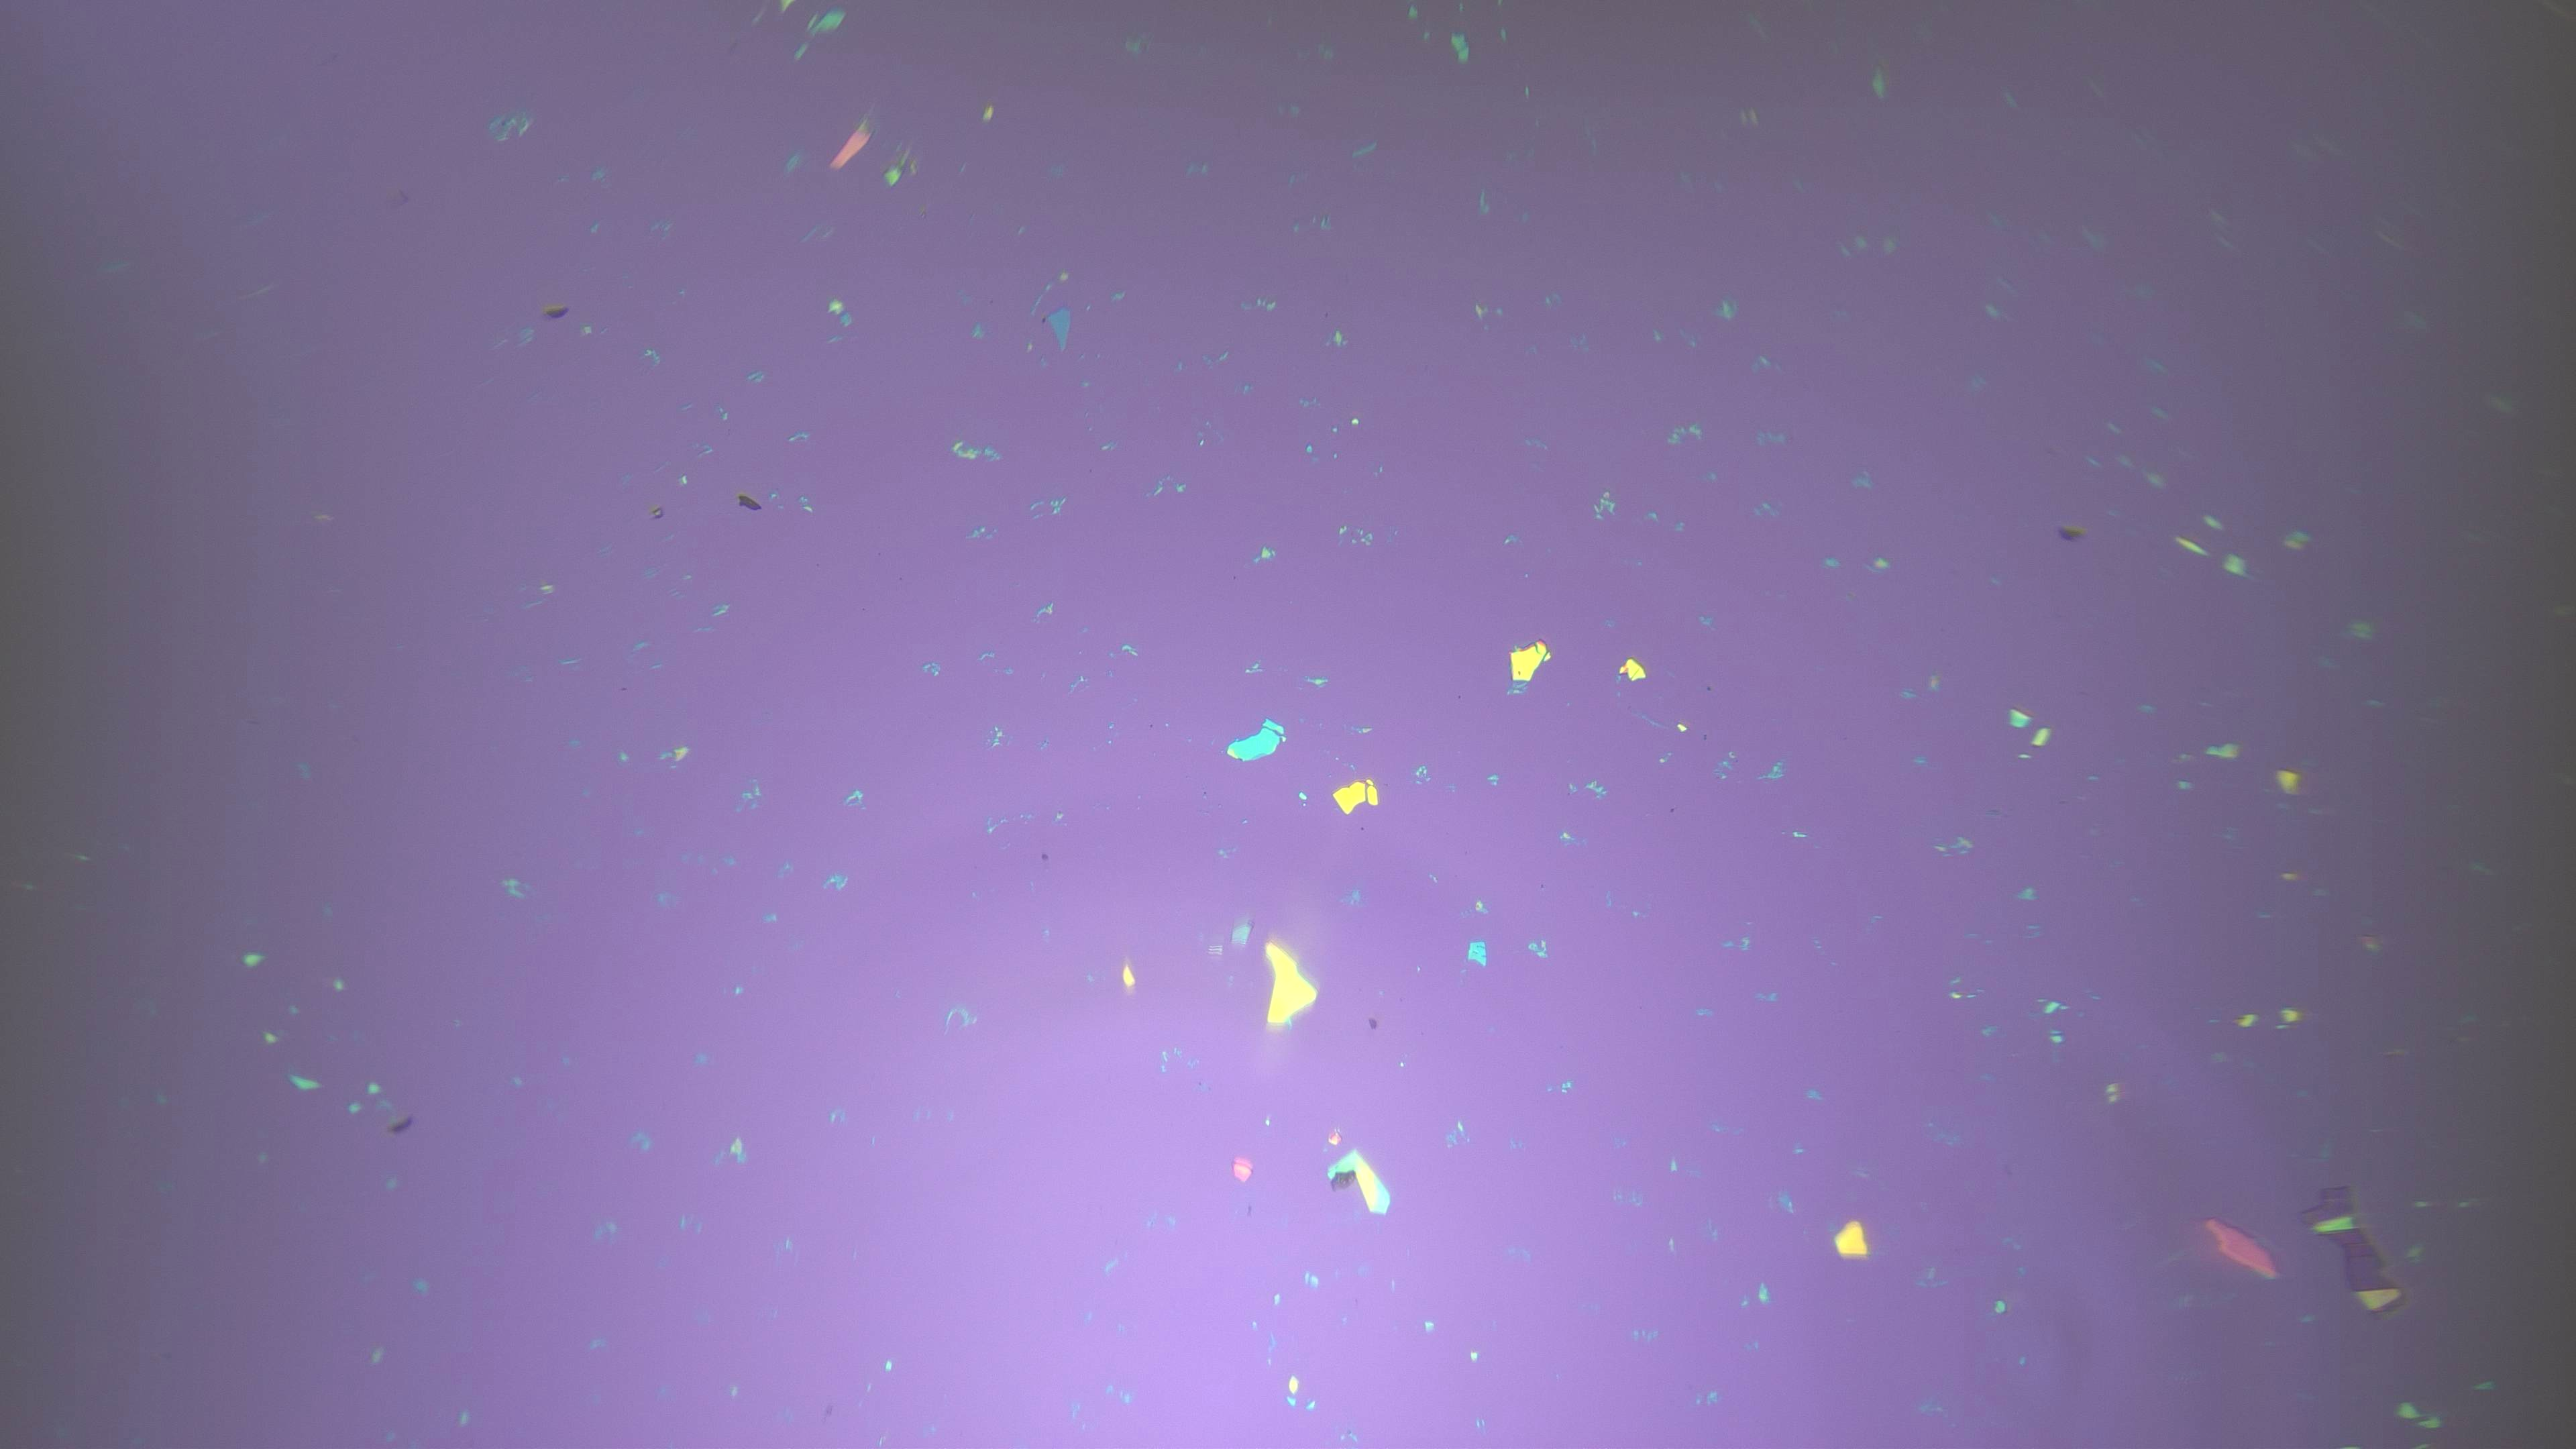
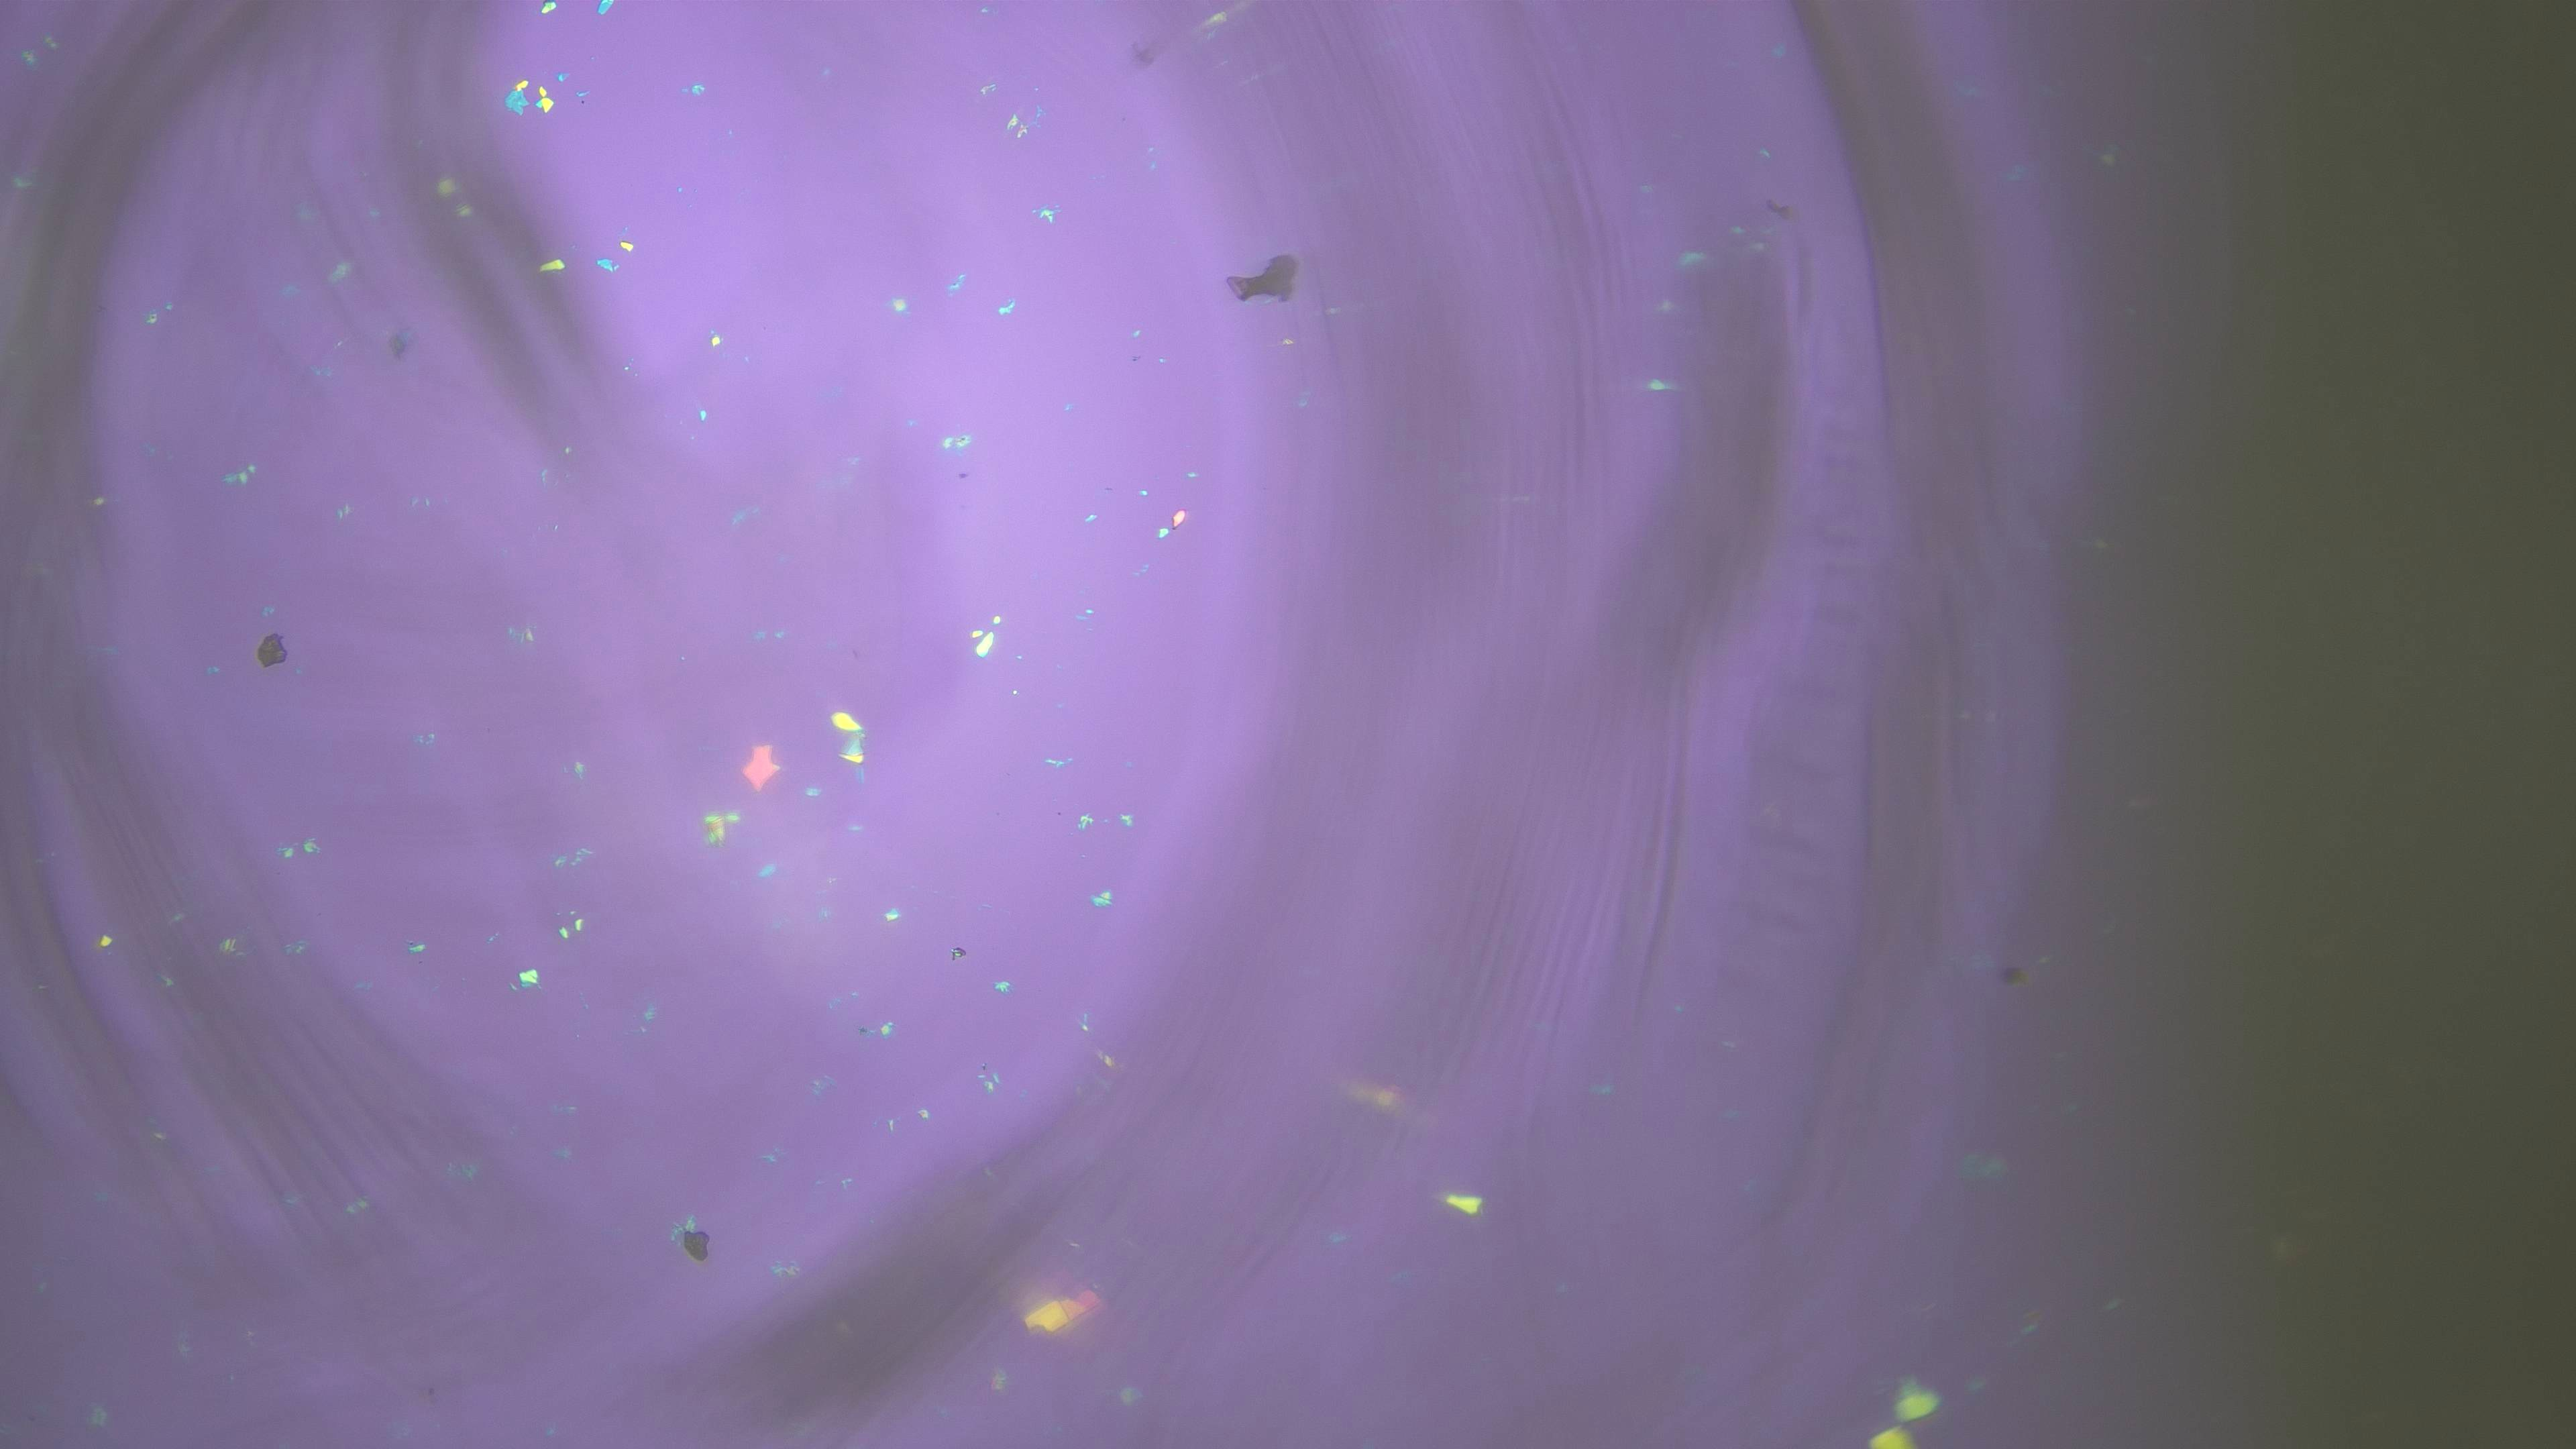
small fixes

diff --git a/cem_mpc.py b/cem_mpc.py
@@ -107,8 +107,8 @@ def load_checkpoint(ckpt_path: Path, encoder, projector, delta_embedder, ldp, de
     ckpt = torch.load(ckpt_path, map_location=device, weights_only=False)
     enc_sd = ckpt['encoder']
     # detect old key scheme and remap if necessary
-    if any(k.startswith('layers.') for k in enc_sd):
-        enc_sd = _remap_encoder_keys(enc_sd)
+    # if any(k.startswith('layers.') for k in enc_sd):
+    #     enc_sd = _remap_encoder_keys(enc_sd)
     encoder.load_state_dict(enc_sd)
     projector.load_state_dict(ckpt['projector'])
     delta_embedder.load_state_dict(ckpt['delta_embedder'])
@@ -147,8 +147,8 @@ def cem_plan(
     n_elite:      int   = 64,
     n_iters:      int   = 5,
     action_std:   float = 3.0,     # mm — initial sampling std
-    action_min:   float = -10.0,   # mm — per-step clamp
-    action_max:   float =  10.0,
+    action_min:   float = -1e-2,   # mm — per-step clamp
+    action_max:   float =  1e-2,
     device:       str   = 'cpu',
 ) -> tuple[torch.Tensor, float]:
     """
@@ -436,6 +436,13 @@ def main():
             action_max=args.max_step,
             settle_s=args.settle,
         )
+    except KeyboardInterrupt:
+        cv2.destroyAllWindows()
+        if robot is not None:
+            robot.disconnect()
+        if camera is not None:
+            camera.stop()
+
     finally:
         cv2.destroyAllWindows()
         if robot is not None:

diff --git a/hardware/transfer_control_controller.py b/hardware/transfer_control_controller.py
@@ -33,12 +33,12 @@ class TransferControl:
     def __init__(
         self,
         *,
-        x_serial: str = "26007120",
-        y_serial: str = "26007081",
+        x_serial: str = "26007081",
+        y_serial: str = "26007120",
         z_serial: str = "26006985",
         goni_serial: str = "27271252",
         polling_ms: int = 200,
-        L_com_port: str = "COM7",
+        L_com_port: str = "COM19",
         L_pos_min_mm: float = 0.0,
         L_pos_max_mm: float = 195.0,
         L_max_speed: Optional[int] = None,

diff --git a/hardware/camera_controller.py b/hardware/camera_controller.py
@@ -300,7 +300,7 @@ class CameraController:
     def _get_latest_frame(self) -> np.ndarray | None:
         """Get the most recent frame."""
         with self._lock:
-            return None if self._latest is None else self._latest.copy()
+            return None if self._latest is None else cv2.flip(self._latest.copy(), 0)
 
     # ========== Live view methods ========== #
 
@@ -392,7 +392,7 @@ class CameraController:
             frame = self._get_latest_frame()
             if frame is not None:
                 os.makedirs(os.path.dirname(path) or ".", exist_ok=True)
-                ok = cv2.imwrite(path, frame)
+                ok = cv2.imwrite(path,frame)
                 if not ok:
                     raise IOError(f"Failed to write image: {path}")
                 return os.path.abspath(path)